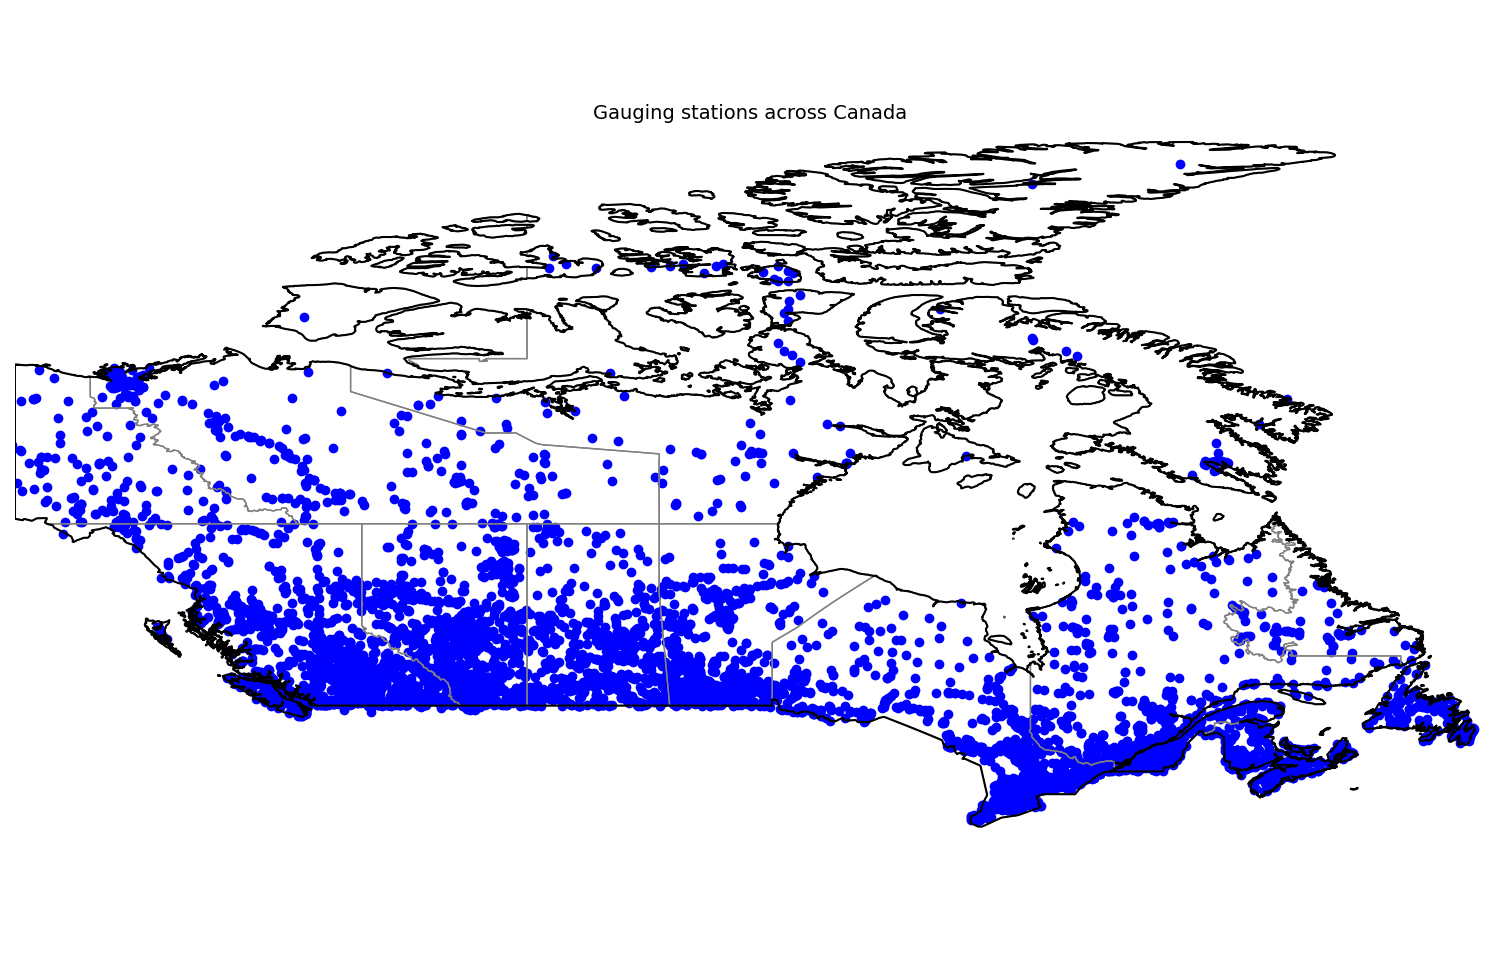
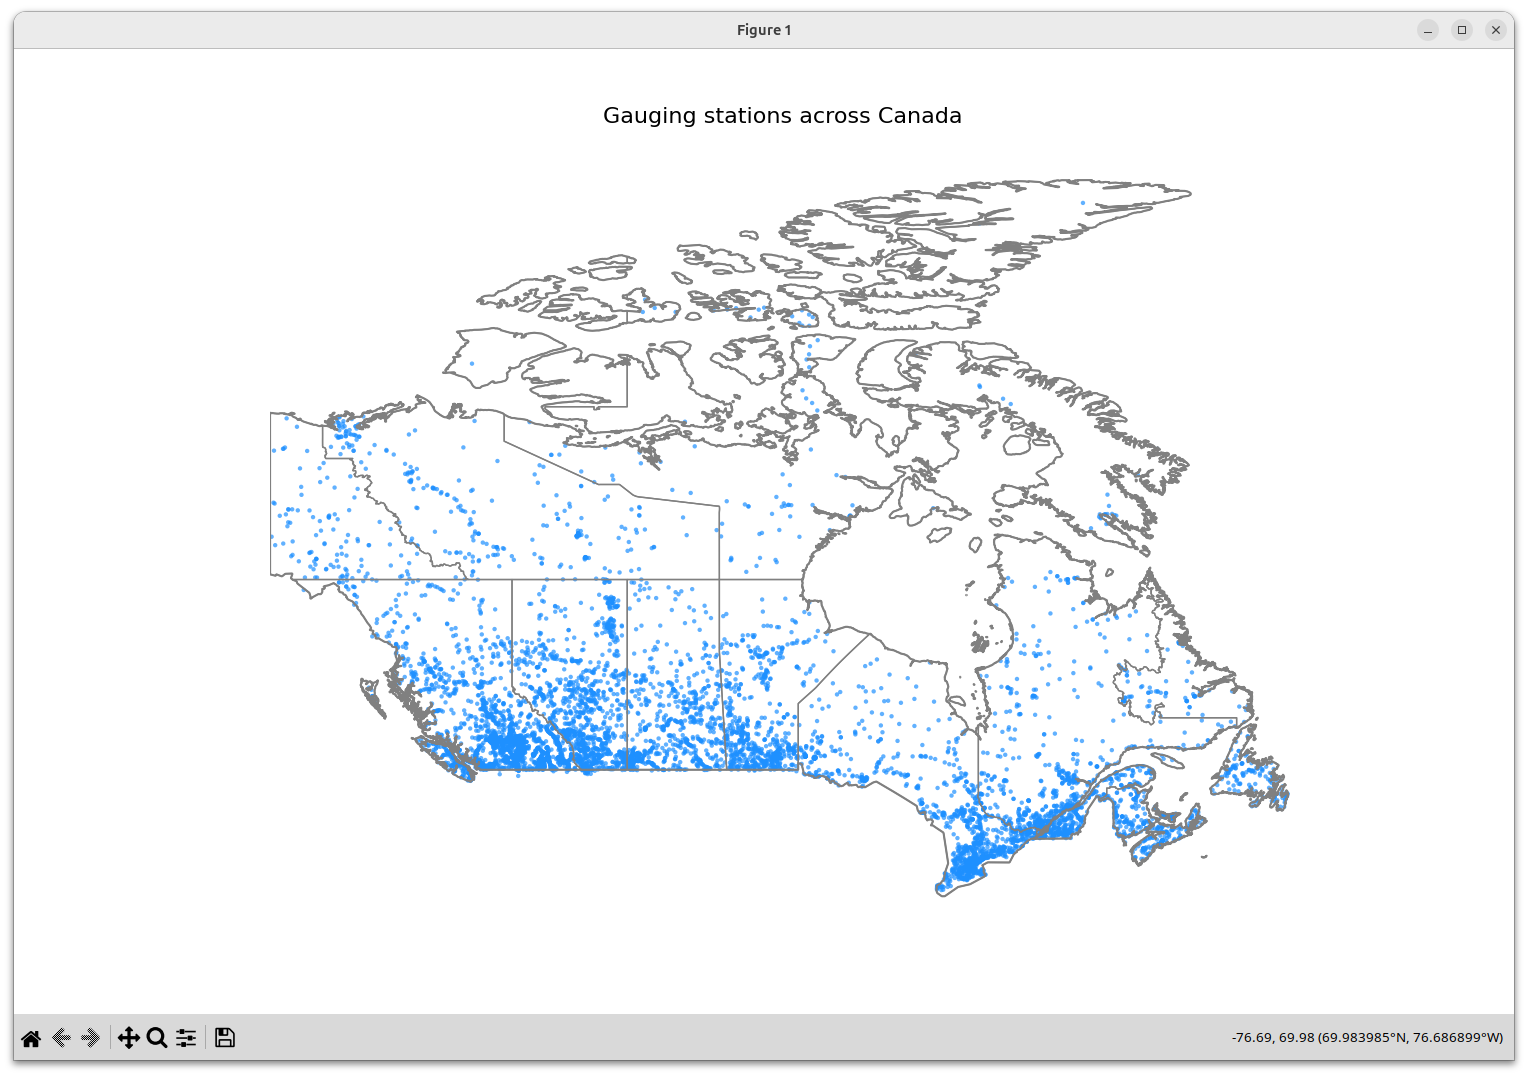
improve the map visualization

diff --git a/map.py b/map.py
@@ -5,12 +5,11 @@ import pandas as pd
 import sqlite3
 
 # TODO: functions to automatically download and extract these
-# TODO: vertically stretch the map out a bit
 
-# download from: https://www.naturalearthdata.com/downloads/10m-cultural-vectors/10m-admin-1-states-provinces/
+# download from: https://www.naturalearthdata.com/http//www.naturalearthdata.com/download/10m/cultural/ne_10m_admin_1_states_provinces.zip
 shapefile_path = "/home/aabiji/Downloads/provinces/ne_10m_admin_1_states_provinces.shp"
 
-# download from: https://www.naturalearthdata.com/downloads/10m-cultural-vectors/10m-admin-0-countries/
+# download from: https://www.naturalearthdata.com/http//www.naturalearthdata.com/download/10m/cultural/ne_10m_admin_0_countries.zip
 country_shapefile_path = "/home/aabiji/Downloads/countries/ne_10m_admin_0_countries.shp"
 
 connection = sqlite3.connect("dataset/Hydat.sqlite3")
@@ -22,25 +21,27 @@ ax = plt.axes(projection=ccrs.PlateCarree())
 # zoom in on Canada [lon_min, lon_max, lat_min, lat_max]
 ax.set_extent([-141, -52, 41, 84], crs=ccrs.PlateCarree())
 
-reader = shpreader.Reader(shapefile_path)
-
 # plot the provinces
-canada_provinces = [record.geometry for record in reader.records() if record.attributes["admin"] == "Canada"]
-for geometry in canada_provinces:
-    ax.add_geometries([geometry], ccrs.PlateCarree(), edgecolor='gray', facecolor='none', linewidth=1)
+reader = shpreader.Reader(shapefile_path)
+provinces = [r.geometry for r in reader.records() if r.attributes["admin"] == "Canada"]
+for geometry in provinces:
+    ax.add_geometries([geometry], ccrs.PlateCarree(), edgecolor="gray",
+                      facecolor="none", linewidth=1)
 
-reader_countries = shpreader.Reader(country_shapefile_path)
-canada_country = [record.geometry for record in reader_countries.records() if record.attributes["ADMIN"] == "Canada"]
+countries = shpreader.Reader(country_shapefile_path)
+country = [r.geometry for r in countries.records() if r.attributes["ADMIN"] == "Canada"]
 
 # plot the border
-for geometry in canada_country:
-    ax.add_geometries([geometry], ccrs.PlateCarree(), edgecolor='black', facecolor='none', linewidth=1.5)
+for geometry in country:
+    ax.add_geometries([geometry], ccrs.PlateCarree(), edgecolor="grey",
+                      facecolor="none", linewidth=1.5)
 
 # plot the stations
 for station in stations.itertuples():
-    ax.scatter(station.LONGITUDE, station.LATITUDE, color="blue", transform=ccrs.PlateCarree())
+    ax.scatter(station.LONGITUDE, station.LATITUDE, color="dodgerblue",
+               s=10, alpha=0.7, edgecolors="none", transform=ccrs.PlateCarree())
 
-plt.title("Gauging stations across Canada", fontsize=14)
+ax.set_title("Gauging stations across Canada", fontsize=16, pad=30)
 ax.set_axis_off()
-plt.tight_layout()
+ax.set_aspect(1.5) # stretch vertically
 plt.show()

diff --git a/writeup.md b/writeup.md
@@ -2,7 +2,7 @@
 
 I want to preface this by saying that you should take my analysis with a grain
 of salt. I probably made a mistake or an oversight somewhere, so my reuslts are
-probably not correct. But, perhaps these findings might be a little interesting.
+probably not correct. What I think is more interesting, is how I did the analysis.
 
 Due to climate change, sea levels and global temperatures are rising.
 Intuitively, it seems that land locked bodies of water, like lakes would
